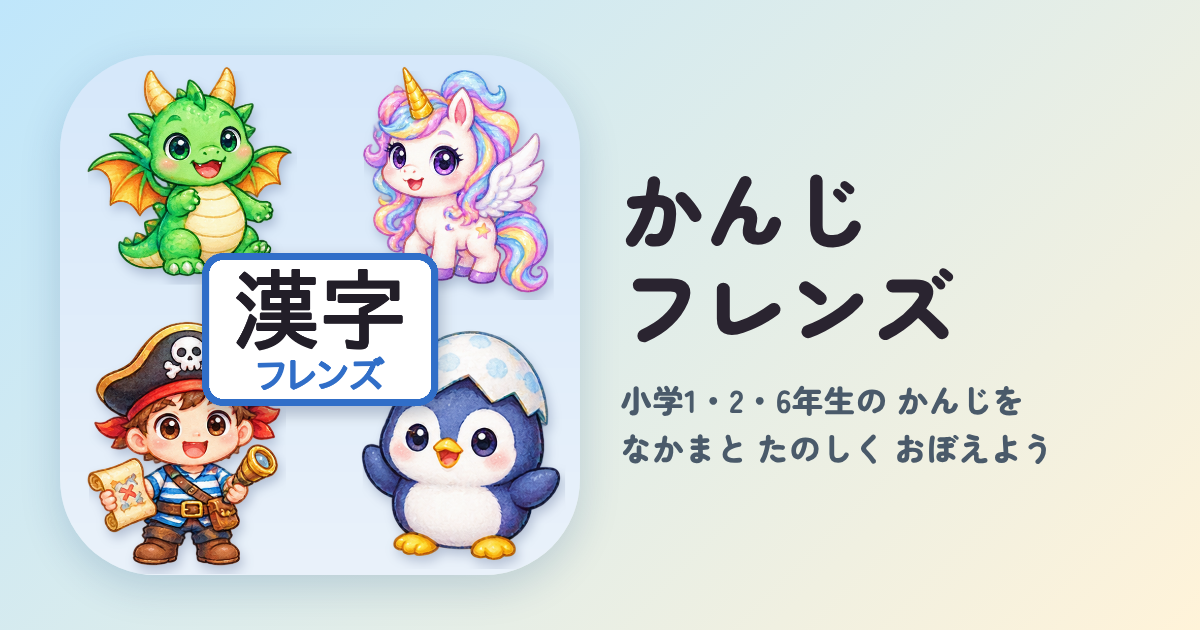
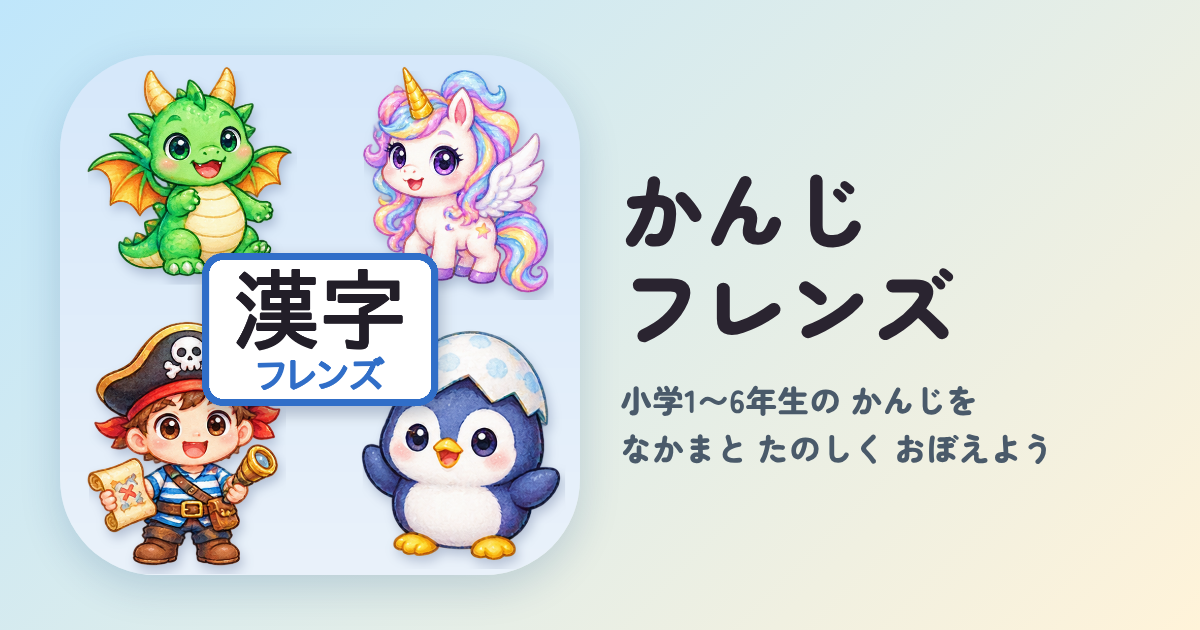
共有画像の文字を「小学1〜6年生」に（og-image-v3）
Claude-Session: https://claude.ai/code/session_01UiPSEeJuTZbq61whUtcpv4

Changed region(s): [[0.5858, 0.6032, 0.8633, 0.6635]]

diff --git a/sw.js b/sw.js
@@ -1,6 +1,6 @@
 // かんじフレンズ：オフラインでも遊べるようにするしくみ
 // ゲームを直したら VERSION を上げると、つぎに開いたとき新しい版に入れかわります
-const VERSION = "nakama-v48";
+const VERSION = "nakama-v49";
 const CORE = ["./", "./index.html", "./manifest.webmanifest", "./icon-192.png", "./icon-512.png", "./icon-maskable-512.png", "./apple-touch-icon.png", "./chara-pirate.png", "./chara-dragon.png", "./chara-hamster.png", "./chara-unicorn.png", "./pirate-10.html", "./pirate-9.html", "./pirate-8.html", "./pirate-7.html", "./pirate-6.html", "./pirate-5.html", "./dragon-10.html", "./dragon-9.html", "./dragon-8.html", "./dragon-7.html", "./dragon-6.html", "./dragon-5.html", "./hamster-10.html", "./hamster-9.html", "./hamster-8.html", "./hamster-7.html", "./hamster-6.html", "./hamster-5.html", "./unicorn-10.html", "./unicorn-9.html", "./unicorn-8.html", "./unicorn-7.html", "./unicorn-6.html", "./unicorn-5.html", "./learn.html", "./evo/dragon-0.webp", "./evo/dragon-1.webp", "./evo/dragon-10.webp", "./evo/dragon-11.webp", "./evo/dragon-12.webp", "./evo/dragon-13.webp", "./evo/dragon-14.webp", "./evo/dragon-2.webp", "./evo/dragon-3.webp", "./evo/dragon-4.webp", "./evo/dragon-5.webp", "./evo/dragon-6.webp", "./evo/dragon-7.webp", "./evo/dragon-8.webp", "./evo/dragon-9.webp", "./evo/hamster-0.webp", "./evo/hamster-1.webp", "./evo/hamster-10.webp", "./evo/hamster-11.webp", "./evo/hamster-12.webp", "./evo/hamster-13.webp", "./evo/hamster-14.webp", "./evo/hamster-2.webp", "./evo/hamster-3.webp", "./evo/hamster-4.webp", "./evo/hamster-5.webp", "./evo/hamster-6.webp", "./evo/hamster-7.webp", "./evo/hamster-8.webp", "./evo/hamster-9.webp", "./evo/pirate-0.png", "./evo/pirate-0.webp", "./evo/pirate-1.webp", "./evo/pirate-10.webp", "./evo/pirate-11.webp", "./evo/pirate-12.webp", "./evo/pirate-13.webp", "./evo/pirate-14.webp", "./evo/pirate-2.webp", "./evo/pirate-3.webp", "./evo/pirate-4.webp", "./evo/pirate-5.webp", "./evo/pirate-6.webp", "./evo/pirate-7.webp", "./evo/pirate-8.webp", "./evo/pirate-9.webp", "./evo/unicorn-0.webp", "./evo/unicorn-1.webp", "./evo/unicorn-10.webp", "./evo/unicorn-11.webp", "./evo/unicorn-12.webp", "./evo/unicorn-13.webp", "./evo/unicorn-14.webp", "./evo/unicorn-2.webp", "./evo/unicorn-3.webp", "./evo/unicorn-4.webp", "./evo/unicorn-5.webp", "./evo/unicorn-6.webp", "./evo/unicorn-7.webp", "./evo/unicorn-8.webp", "./evo/unicorn-9.webp", "./cut/dragon-0.webp", "./cut/dragon-1.webp", "./cut/hamster-0.webp", "./cut/hamster-1.webp", "./cut/pirate-0.webp", "./cut/pirate-1.webp", "./cut/unicorn-0.webp", "./cut/unicorn-1.webp", "./play/card-igloo.webp", "./play/card-q.webp", "./play/fish0.webp", "./play/fish1.webp", "./play/fish2.webp", "./play/fish4.webp", "./play/fish5.webp", "./play/igloo.webp", "./play/nightsky.webp", "./play/star.webp", "./play/target.webp", "./play/tr-dug.webp", "./play/tr-gold.webp", "./play/tr-hot.webp", "./play/tr-sand.webp", "./learn-1.js?v=1", "./learn-2.js?v=1", "./learn-3.js?v=1", "./learn-4.js?v=1", "./learn-5.js?v=1", "./learn-6.js?v=1"];
 
 self.addEventListener("install", e => {

diff --git a/hamster-10.html b/hamster-10.html
@@ -9,7 +9,7 @@
 <meta property="og:title" content="かんじフレンズ">
 <meta property="og:description" content="パイレーツ・ドラゴン・ペンギン・ユニコーンといっしょに、小学1〜6年生の漢字を楽しくおぼえるゲーム">
 <meta property="og:url" content="https://mamiariumi-oss.github.io/-app/hamster-10.html">
-<meta property="og:image" content="https://mamiariumi-oss.github.io/-app/og-image-v2.png">
+<meta property="og:image" content="https://mamiariumi-oss.github.io/-app/og-image-v3.png">
 <meta property="og:image:width" content="1200">
 <meta property="og:image:height" content="630">
 <meta name="twitter:card" content="summary_large_image">

diff --git a/unicorn-10.html b/unicorn-10.html
@@ -9,7 +9,7 @@
 <meta property="og:title" content="かんじフレンズ">
 <meta property="og:description" content="パイレーツ・ドラゴン・ペンギン・ユニコーンといっしょに、小学1〜6年生の漢字を楽しくおぼえるゲーム">
 <meta property="og:url" content="https://mamiariumi-oss.github.io/-app/unicorn-10.html">
-<meta property="og:image" content="https://mamiariumi-oss.github.io/-app/og-image-v2.png">
+<meta property="og:image" content="https://mamiariumi-oss.github.io/-app/og-image-v3.png">
 <meta property="og:image:width" content="1200">
 <meta property="og:image:height" content="630">
 <meta name="twitter:card" content="summary_large_image">

diff --git a/dragon-10.html b/dragon-10.html
@@ -9,7 +9,7 @@
 <meta property="og:title" content="かんじフレンズ">
 <meta property="og:description" content="パイレーツ・ドラゴン・ペンギン・ユニコーンといっしょに、小学1〜6年生の漢字を楽しくおぼえるゲーム">
 <meta property="og:url" content="https://mamiariumi-oss.github.io/-app/dragon-10.html">
-<meta property="og:image" content="https://mamiariumi-oss.github.io/-app/og-image-v2.png">
+<meta property="og:image" content="https://mamiariumi-oss.github.io/-app/og-image-v3.png">
 <meta property="og:image:width" content="1200">
 <meta property="og:image:height" content="630">
 <meta name="twitter:card" content="summary_large_image">

diff --git a/hamster-5.html b/hamster-5.html
@@ -9,7 +9,7 @@
 <meta property="og:title" content="かんじフレンズ">
 <meta property="og:description" content="パイレーツ・ドラゴン・ペンギン・ユニコーンといっしょに、小学1〜6年生の漢字を楽しくおぼえるゲーム">
 <meta property="og:url" content="https://mamiariumi-oss.github.io/-app/hamster-5.html">
-<meta property="og:image" content="https://mamiariumi-oss.github.io/-app/og-image-v2.png">
+<meta property="og:image" content="https://mamiariumi-oss.github.io/-app/og-image-v3.png">
 <meta property="og:image:width" content="1200">
 <meta property="og:image:height" content="630">
 <meta name="twitter:card" content="summary_large_image">

diff --git a/hamster-6.html b/hamster-6.html
@@ -9,7 +9,7 @@
 <meta property="og:title" content="かんじフレンズ">
 <meta property="og:description" content="パイレーツ・ドラゴン・ペンギン・ユニコーンといっしょに、小学1〜6年生の漢字を楽しくおぼえるゲーム">
 <meta property="og:url" content="https://mamiariumi-oss.github.io/-app/hamster-6.html">
-<meta property="og:image" content="https://mamiariumi-oss.github.io/-app/og-image-v2.png">
+<meta property="og:image" content="https://mamiariumi-oss.github.io/-app/og-image-v3.png">
 <meta property="og:image:width" content="1200">
 <meta property="og:image:height" content="630">
 <meta name="twitter:card" content="summary_large_image">

diff --git a/hamster-7.html b/hamster-7.html
@@ -9,7 +9,7 @@
 <meta property="og:title" content="かんじフレンズ">
 <meta property="og:description" content="パイレーツ・ドラゴン・ペンギン・ユニコーンといっしょに、小学1〜6年生の漢字を楽しくおぼえるゲーム">
 <meta property="og:url" content="https://mamiariumi-oss.github.io/-app/hamster-7.html">
-<meta property="og:image" content="https://mamiariumi-oss.github.io/-app/og-image-v2.png">
+<meta property="og:image" content="https://mamiariumi-oss.github.io/-app/og-image-v3.png">
 <meta property="og:image:width" content="1200">
 <meta property="og:image:height" content="630">
 <meta name="twitter:card" content="summary_large_image">

diff --git a/hamster-8.html b/hamster-8.html
@@ -9,7 +9,7 @@
 <meta property="og:title" content="かんじフレンズ">
 <meta property="og:description" content="パイレーツ・ドラゴン・ペンギン・ユニコーンといっしょに、小学1〜6年生の漢字を楽しくおぼえるゲーム">
 <meta property="og:url" content="https://mamiariumi-oss.github.io/-app/hamster-8.html">
-<meta property="og:image" content="https://mamiariumi-oss.github.io/-app/og-image-v2.png">
+<meta property="og:image" content="https://mamiariumi-oss.github.io/-app/og-image-v3.png">
 <meta property="og:image:width" content="1200">
 <meta property="og:image:height" content="630">
 <meta name="twitter:card" content="summary_large_image">

diff --git a/hamster-9.html b/hamster-9.html
@@ -9,7 +9,7 @@
 <meta property="og:title" content="かんじフレンズ">
 <meta property="og:description" content="パイレーツ・ドラゴン・ペンギン・ユニコーンといっしょに、小学1〜6年生の漢字を楽しくおぼえるゲーム">
 <meta property="og:url" content="https://mamiariumi-oss.github.io/-app/hamster-9.html">
-<meta property="og:image" content="https://mamiariumi-oss.github.io/-app/og-image-v2.png">
+<meta property="og:image" content="https://mamiariumi-oss.github.io/-app/og-image-v3.png">
 <meta property="og:image:width" content="1200">
 <meta property="og:image:height" content="630">
 <meta name="twitter:card" content="summary_large_image">

diff --git a/pirate-10.html b/pirate-10.html
@@ -9,7 +9,7 @@
 <meta property="og:title" content="かんじフレンズ">
 <meta property="og:description" content="パイレーツ・ドラゴン・ペンギン・ユニコーンといっしょに、小学1〜6年生の漢字を楽しくおぼえるゲーム">
 <meta property="og:url" content="https://mamiariumi-oss.github.io/-app/pirate-10.html">
-<meta property="og:image" content="https://mamiariumi-oss.github.io/-app/og-image-v2.png">
+<meta property="og:image" content="https://mamiariumi-oss.github.io/-app/og-image-v3.png">
 <meta property="og:image:width" content="1200">
 <meta property="og:image:height" content="630">
 <meta name="twitter:card" content="summary_large_image">

diff --git a/unicorn-5.html b/unicorn-5.html
@@ -9,7 +9,7 @@
 <meta property="og:title" content="かんじフレンズ">
 <meta property="og:description" content="パイレーツ・ドラゴン・ペンギン・ユニコーンといっしょに、小学1〜6年生の漢字を楽しくおぼえるゲーム">
 <meta property="og:url" content="https://mamiariumi-oss.github.io/-app/unicorn-5.html">
-<meta property="og:image" content="https://mamiariumi-oss.github.io/-app/og-image-v2.png">
+<meta property="og:image" content="https://mamiariumi-oss.github.io/-app/og-image-v3.png">
 <meta property="og:image:width" content="1200">
 <meta property="og:image:height" content="630">
 <meta name="twitter:card" content="summary_large_image">

diff --git a/unicorn-6.html b/unicorn-6.html
@@ -9,7 +9,7 @@
 <meta property="og:title" content="かんじフレンズ">
 <meta property="og:description" content="パイレーツ・ドラゴン・ペンギン・ユニコーンといっしょに、小学1〜6年生の漢字を楽しくおぼえるゲーム">
 <meta property="og:url" content="https://mamiariumi-oss.github.io/-app/unicorn-6.html">
-<meta property="og:image" content="https://mamiariumi-oss.github.io/-app/og-image-v2.png">
+<meta property="og:image" content="https://mamiariumi-oss.github.io/-app/og-image-v3.png">
 <meta property="og:image:width" content="1200">
 <meta property="og:image:height" content="630">
 <meta name="twitter:card" content="summary_large_image">
